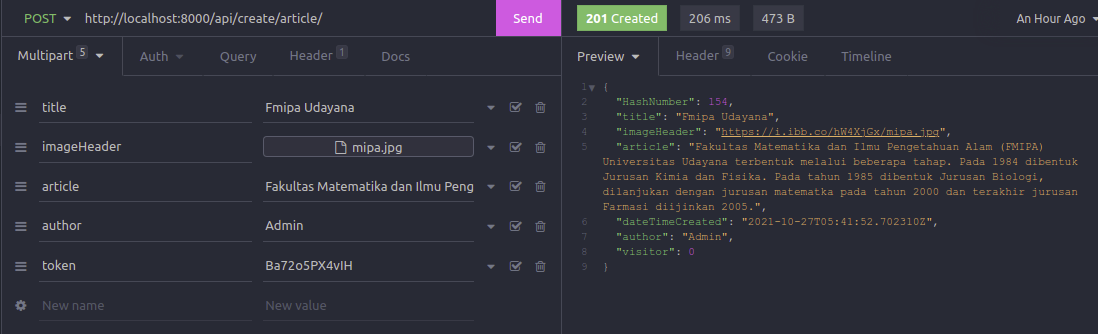
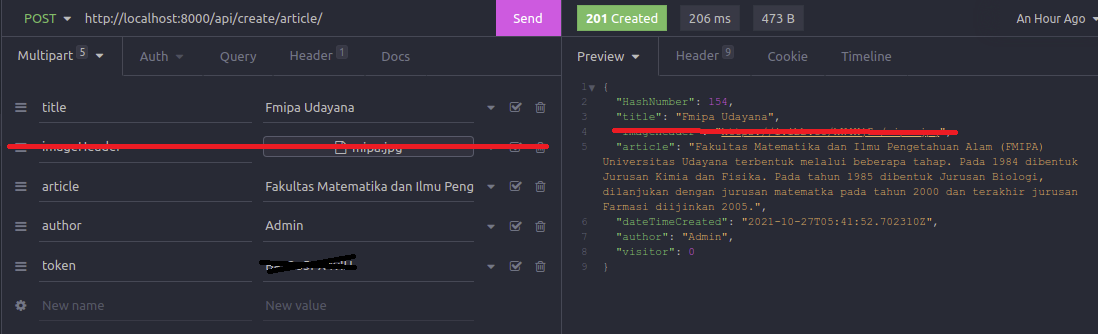
Remove ImageHeader in database

Changed region(s): [[0.0, 0.4192, 0.4954, 0.4491], [0.5574, 0.3593, 0.867, 0.4192], [0.2168, 0.7485, 0.3406, 0.8383]]

diff --git a/CreateNewPost/viewset_api.py b/CreateNewPost/viewset_api.py
@@ -31,17 +31,10 @@ def CreateNewSetView(request):
             serializerError.is_valid()
             return Response(serializerError.errors, status=status.HTTP_400_BAD_REQUEST) # Penyimpanan sudah penuh
 
-        gambarHeader = request.FILES['imageHeader']
-        responeImgBB = requests.post('https://api.imgbb.com/1/upload', params={
-            'key': 'cc2fb31bb534ef735f2ec080c490206f'
-        }, files={
-            'image': gambarHeader.read()
-        }).json()
 
         newData = {
             'HashNumber': keyHashFinal,
             'title': request.data['title'],
-            'imageHeader': responeImgBB['data']['display_url'],
             'article': request.data['article'],
             'author': request.data['author']
         }

diff --git a/backend_webBlog/settings.py b/backend_webBlog/settings.py
@@ -89,6 +89,18 @@ DATABASES = {
     }
 }
 
+# Heroku database postgresql, USE THIS FOR DEPLOY / DEMO PRODUCTION
+# DATABASES = {
+#    'default': {
+#        'ENGINE': 'django.db.backends.postgresql',
+#        'NAME': 'jwhumlzatwyamg',
+#        'HOST': 'ec2-44-195-240-222.compute-1.amazonaws.com',
+#        'PORT': 5432,
+#        'USER': 'd14g3gjbi0sulr',
[1 lines of base64/hex data omitted]
+#    }
+# }
+
 
 # Password validation
 # https://docs.djangoproject.com/en/3.2/ref/settings/#auth-password-validators

diff --git a/DATABASE/models.py b/DATABASE/models.py
@@ -4,7 +4,6 @@ from django.db import models
 class BlogMainDatabase(models.Model):
     HashNumber = models.IntegerField(default=9999, blank=True, null=True)
     title = models.CharField(max_length=255, blank=True, null=True)
-    imageHeader = models.CharField(max_length=255, blank=True, null=True)
     article = models.TextField()
     dateTimeCreated = models.DateTimeField(auto_now_add=True, blank=True, null=True)
     author = models.CharField(max_length=150)

diff --git a/DATABASE/migrations/0006_remove_blogmaindatabase_imageheader.py b/DATABASE/migrations/0006_remove_blogmaindatabase_imageheader.py
@@ -1,0 +1,17 @@
+# Generated by Django 3.2.5 on 2021-11-08 06:58
+
+from django.db import migrations
+
+
+class Migration(migrations.Migration):
+
+    dependencies = [
+        ('DATABASE', '0005_blogmaindatabase_acceptbyadmin'),
+    ]
+
+    operations = [
+        migrations.RemoveField(
+            model_name='blogmaindatabase',
+            name='imageHeader',
+        ),
+    ]

diff --git a/DATABASE/serializers.py b/DATABASE/serializers.py
@@ -5,4 +5,4 @@ from DATABASE.models import BlogMainDatabase
 class BlogSerializers(serializers.ModelSerializer):
     class Meta:
         model = BlogMainDatabase
-        fields = ['HashNumber', 'title', 'imageHeader', 'article', 'dateTimeCreated', 'author', 'visitor']
+        fields = ['HashNumber', 'title', 'article', 'dateTimeCreated', 'author', 'visitor']

diff --git a/README.md b/README.md
@@ -19,6 +19,7 @@ python manage.py runserver
 
 ## API Reference
 <h3 align="center">1. Get All Article</h3>
+<h4 align="center">URL : https://unud-blog.herokuapp.com/api/blog-post </h4>
 #### 
 
 ```http
@@ -58,6 +59,7 @@ python manage.py runserver
 
 #### 
 <h3 align="center">2. Get One Article</h3>
+<h4 align="center">URL : https://unud-blog.herokuapp.com/api/blog-post/one-item </h4>
 
 ```http
   [GET] /api/blog-post/one-item/
@@ -90,6 +92,7 @@ python manage.py runserver
 
 #### 
 <h3 align="center">3. Search Article</h3>
+<h4 align="center">URL : https://unud-blog.herokuapp.com/api/search </h4>
 
 ```http
   [POST] /api/search/
@@ -107,6 +110,7 @@ python manage.py runserver
 
 #### 
 <h3 align="center">4. Create New Article</h3>
+<h4 align="center">URL : https://unud-blog.herokuapp.com/api/create/article </h4>
 
 ```http
   [POST] /api/create/article/
@@ -116,7 +120,6 @@ python manage.py runserver
 | :-------- | :------- | :-------------------------------- |
 | `token`      | `string` | **Required** - Kode Akses |
 | `title`      | `string` | **Required** - Judul Artikel|
-| `imageHeader`| `img file` | **Required** - Gambar Header Artikel|
 | `article`    | `string` | **Required** - Isi Artikel |
 | `author`      | `string` | **Required** - Penulis Artikel|
 
@@ -125,9 +128,10 @@ python manage.py runserver
 
 #### 
 <h3 align="center">5. Admin Validator</h3>
+<h4 align="center">URL : https://unud-blog.herokuapp.com/api/adminValidator </h4>
 
 ```http
-  [GET/POST] /api/search/
+  [GET/POST] /api/adminValidator/
 ```
 
 | Multipart | Type     | Description                       |
